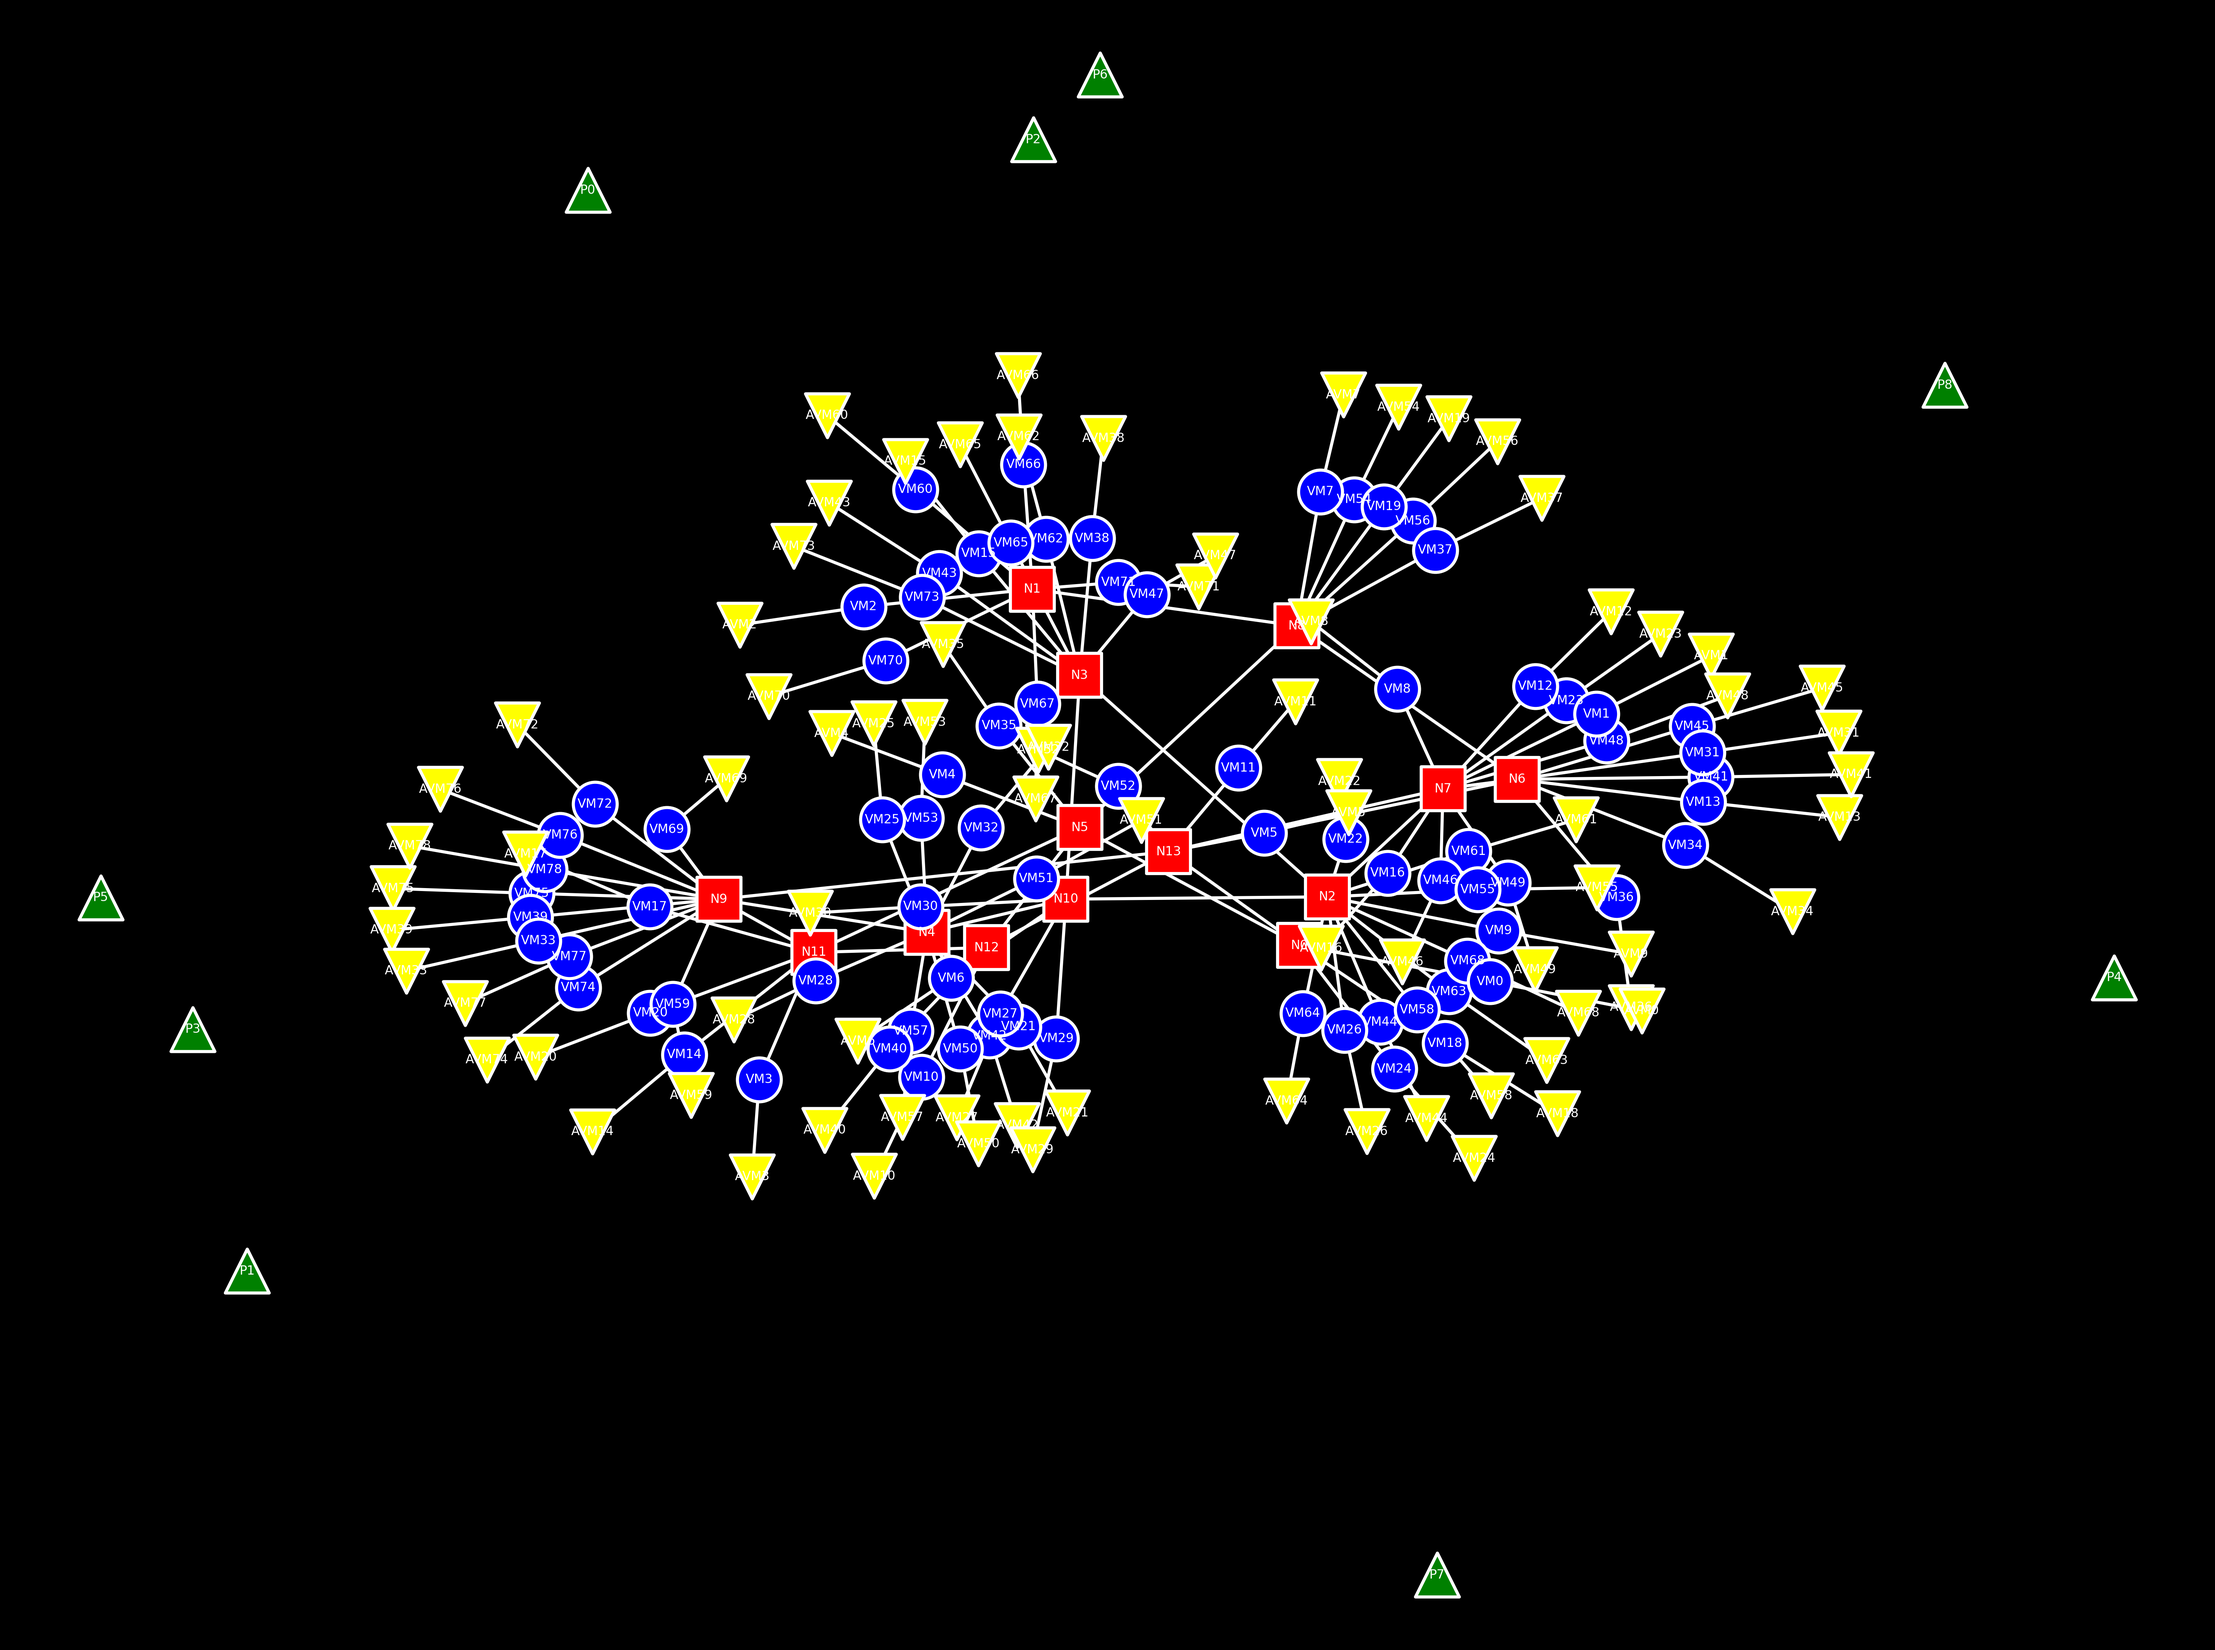
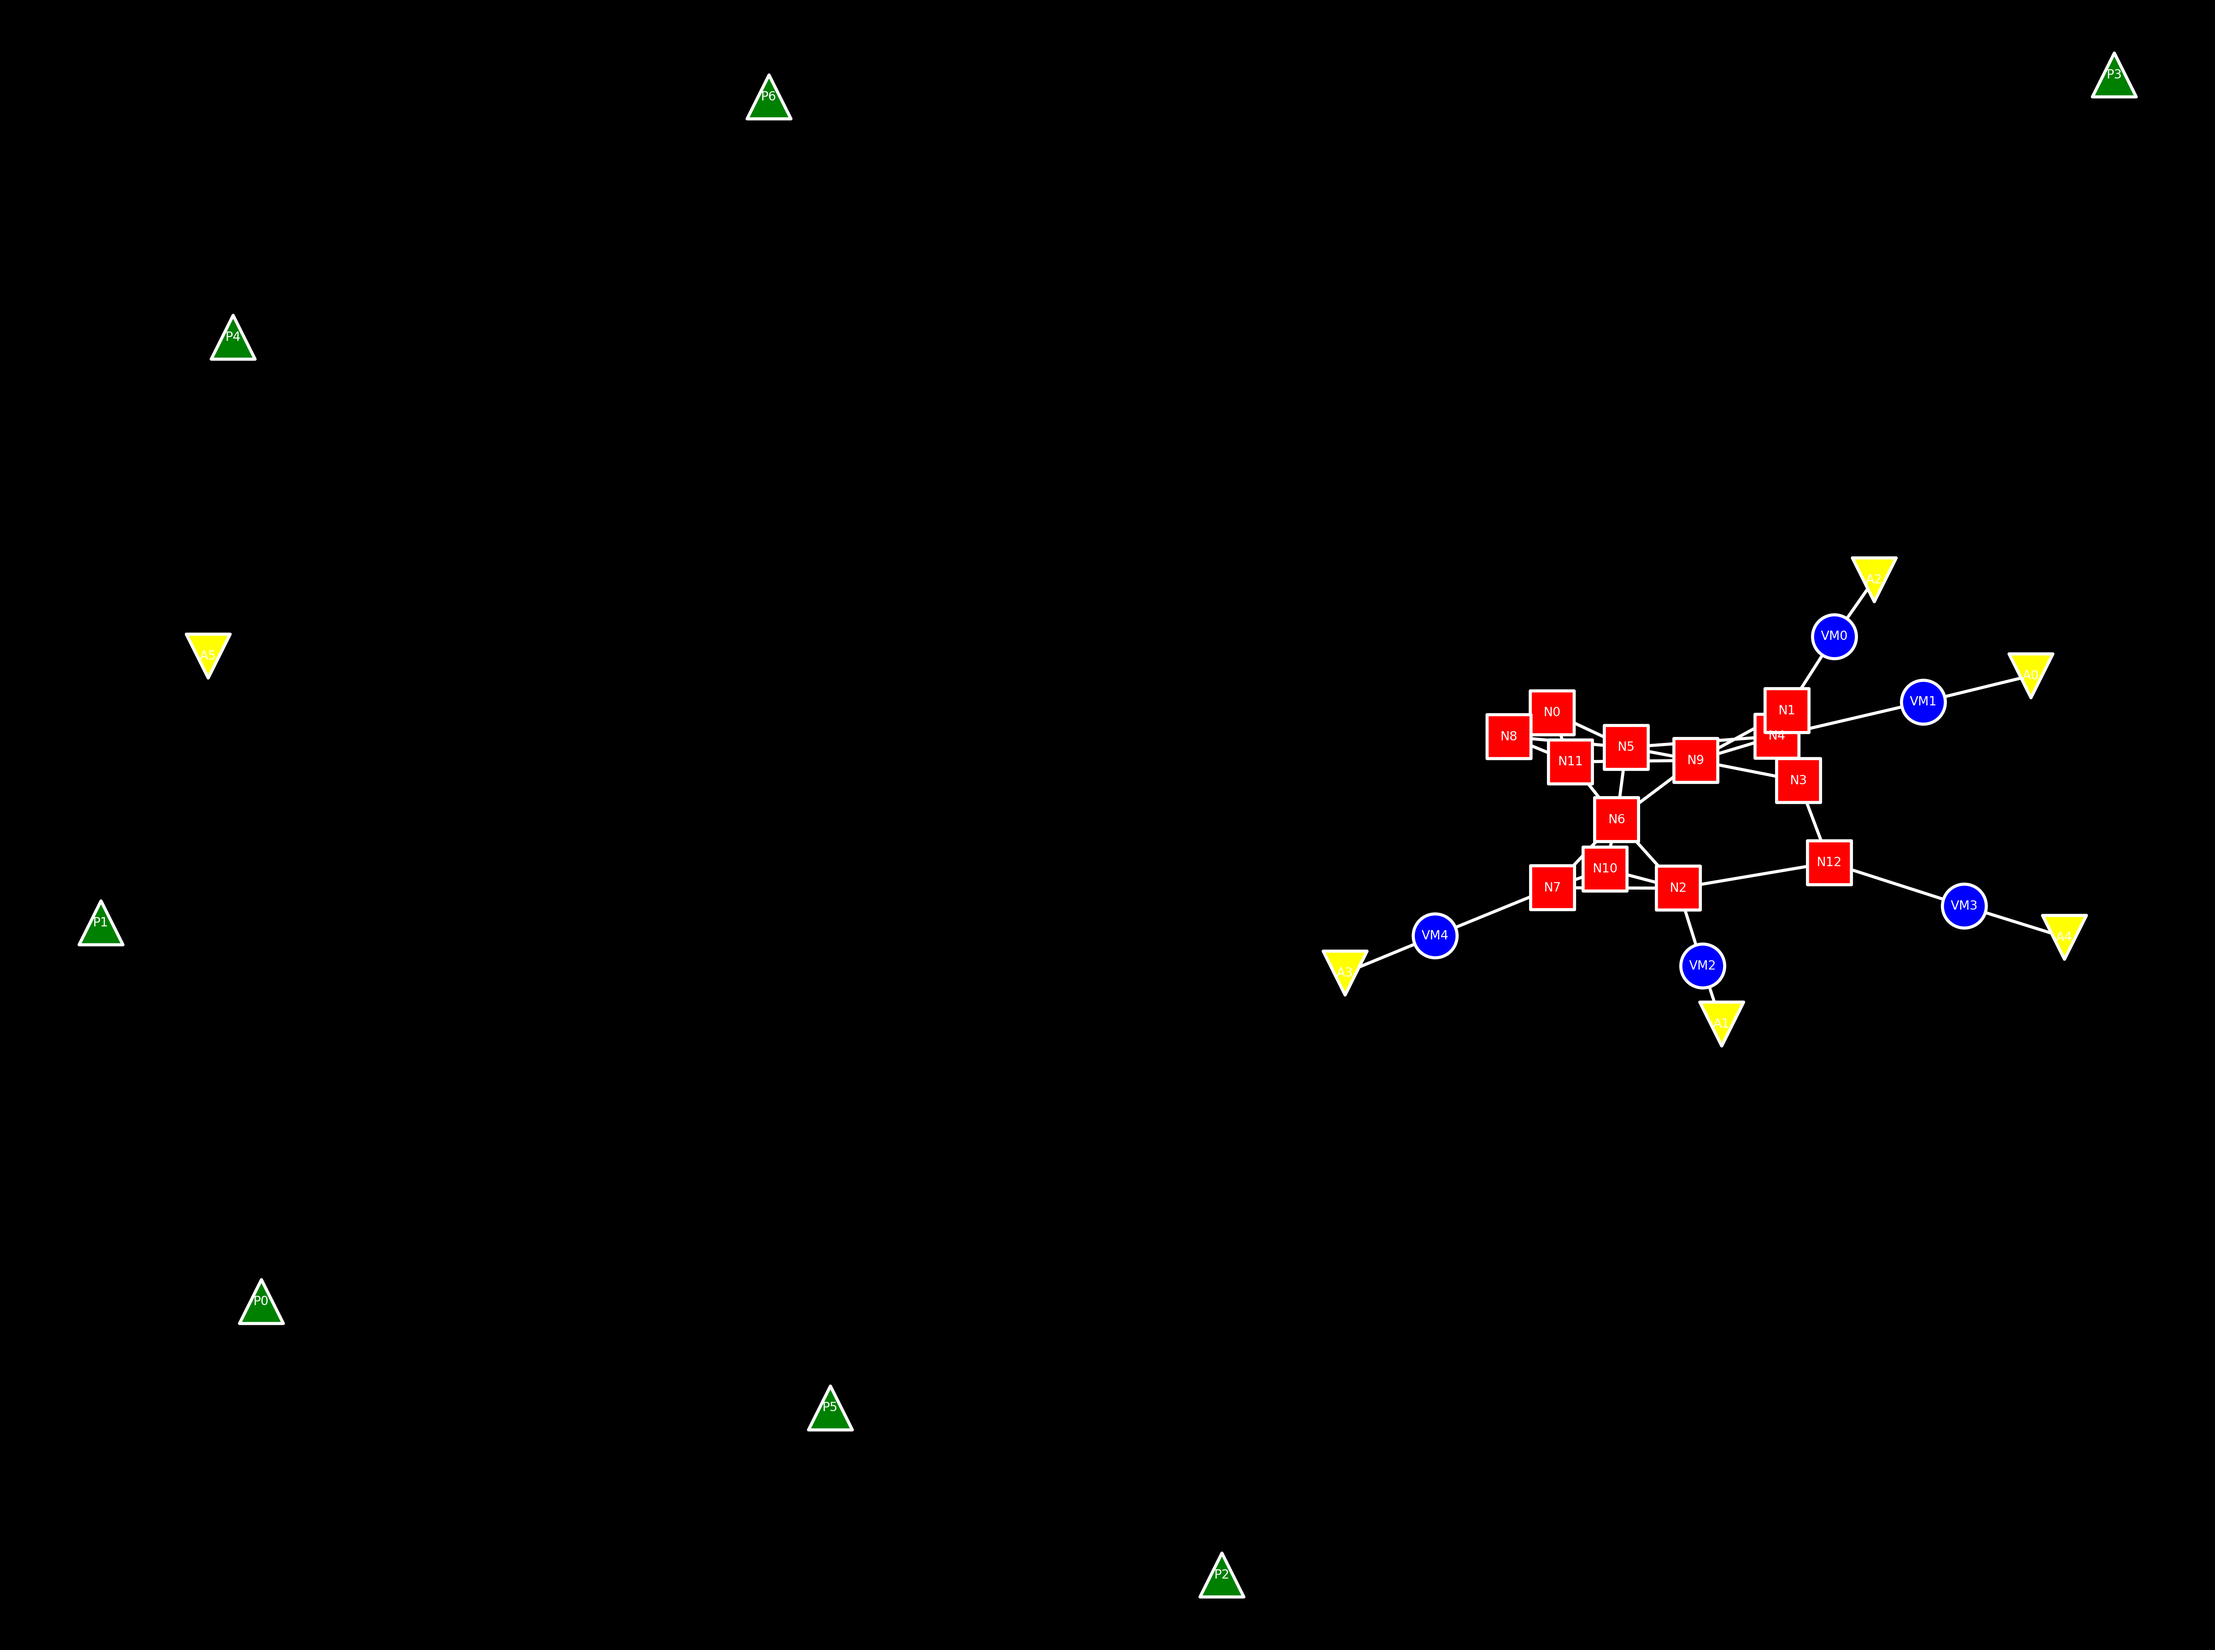
More refactoring, but something fishy going on.

diff --git a/mal_sampler.py b/mal_sampler.py
@@ -2,14 +2,16 @@ from scipy.stats import binom
 import random
 import networkx as nx
 import matplotlib.pyplot as plt
+import sys
 
 # For all possible actions, compute likelihood of resulting model.
 # Choose action that maximizes likelihood.
 
 
 class Asset:
-    def __init__(self, name: str):
+    def __init__(self, name: str, asset_type_name: str):
         self.name = name
+        self.asset_type_name = asset_type_name
         self.n_associated_assets = dict()
         self.associated_assets = dict()
 
@@ -17,57 +19,49 @@ class Asset:
         return len(self.associated_assets[asset_type]) < self.n_associated_assets[asset_type]
 
     def print(self):
-        print(self.name)
+
+        print(f"{self.asset_type_name}: {self.name}. Associated assets: {[(n, [a.name for a in list(self.associated_assets[n])]) for n in self.associated_assets]}")
 
 
 class Network(Asset):
     def __init__(self, name: str):
-        super().__init__(name)
+        super().__init__(name, 'network')
         self.n_associated_assets['network'] = 1 + binom(n=500, p=0.005).rvs()
         self.n_associated_assets['vm_instance'] = 1 + binom(n=1000, p=0.005).rvs()
         self.associated_assets['network'] = set()
         self.associated_assets['vm_instance'] = set()
 
-    def print(self):
-        print(f"Network: {self.name}. Associated networks: {[an.name for an in self.associated_assets['network']]}. Associated VM instances: {[ah.name for ah in self.associated_assets['vm_instance']]}")
-
-
 class VMInstance(Asset):
     def __init__(self, name: str):
-        super().__init__(name)
+        super().__init__(name, 'vm_instance')
         self.n_associated_assets['network'] = 1
         self.n_associated_assets['admin'] = 1
         self.associated_assets['network'] = set()
         self.associated_assets['admin'] = set()
     
-    def print(self):
-        print(
-            f"VMInstance: {self.name}. Networks: {[nw.name for nw in self.assets['network']]}")
-
-
 class Principal(Asset):
     def __init__(self, name: str):
-        super().__init__(name)
+        super().__init__(name, 'principal')
         self.n_associated_assets['admin'] = binom(n=2, p=0.1).rvs()
         self.associated_assets['admin'] = set()
 
 class Role(Asset):
-    def __init__(self, name: str):
-        super().__init__(name)
+    def __init__(self, name: str, asset_type_name: str):
+        super().__init__(name, asset_type_name)
         self.associated_assets['vm_instance'] = set()
         self.associated_assets['principal'] = set()
 
 
 class ComputeOSAdminLogin(Role):
     def __init__(self, name: str):
-        super().__init__(name)
+        super().__init__(name, 'admin')
         self.n_associated_assets['vm_instance'] = 1
         self.n_associated_assets['principal'] = 1 + binom(n=5, p=0.1).rvs()
 
 
 class ComputeOSLogin(Role):
     def __init__(self, name: str):
-        super().__init__(name)
+        super().__init__(name, 'login')
         self.n_associated_assets['vm_instance'] = binom(n=30, p=0.5).rvs()
         self.n_associated_assets['principal'] = 1 + binom(n=5, p=0.1).rvs()
 
@@ -78,26 +72,33 @@ class Model():
         self.assets = dict()
         self.n_assets['network'] = 1 + binom(n=30, p=0.5).rvs()
         self.n_assets['principal'] = 1 + binom(n=10*self.n_assets['network'], p=0.05).rvs()
+        self.n_assets['vm_instance'] = 1 + binom(n=10*self.n_assets['network'], p=0.02).rvs()
+        self.n_assets['admin'] = sys.maxsize
+        self.n_assets['login'] = sys.maxsize
         self.assets['network'] = set()
         self.assets['vm_instance'] = set()
         self.assets['principal'] = set()
-        self.assets['admins'] = set()
+        self.assets['admin'] = set()
 
-    def add_network(self):
-        if len(self.assets['network']) <= self.n_assets['network']:
-            nw = Network(f"N{len(self.assets['network'])}")
-            self.assets['network'].add(nw)
+    def add(self, asset_type: str):
+        a = None
+        if len(self.assets[asset_type]) <= self.n_assets[asset_type]:
+            if asset_type == 'network':
+                a = Network(f"N{len(self.assets[asset_type])}")
+            elif asset_type == 'principal':
+                a = Principal(f"P{len(self.assets[asset_type])}")
+            elif asset_type == 'vm_instance':
+                a = VMInstance(f"VM{len(self.assets[asset_type])}")
+            elif asset_type == 'admin':
+                a = ComputeOSAdminLogin(f"A{len(self.assets[asset_type])}")
+            elif asset_type == 'login':
+                a = ComputeOSLogin(f"L{len(self.assets[asset_type])}")
+            else:
+                raise ValueError(f'Unknown asset type: {asset_type}')
+            self.assets[asset_type].add(a)
         else:
-            print('Cannot add more networks')
-        return self.n_assets['network'] - len(self.assets['network'])
-
-    def add_principal(self):
-        if len(self.assets['principal']) <= self.n_assets['principal']:
-            principal = Principal(f"P{len(self.assets['principal'])}")
-            self.assets['principal'].add(principal)
-        else:
-            print('Cannot add more principals')
-        return self.n_assets['principal'] - len(self.assets['principal'])
+            print(f'Cannot add more {asset_type} assets.')
+        return a
 
     def associate_networks_to_networks(self):
         available_networks = [nw for nw in self.assets['network'] if nw.accepts('network')]
@@ -117,48 +118,46 @@ class Model():
                     f'Associated {source_nw.name} to {target_nw.name}. {len(available_networks)} networks left.')
                 return len(available_networks)
 
-    def associate_vm_instances_to_networks(self):
-        available_networks = [nw for nw in self.assets['network'] if nw.accepts('vm_instance')]
-        if len(available_networks) == 0:
-            print('Not enough networks to associate vm instances to')
+    def associate(self, source_asset_type: str, target_asset_type: str):
+        available_source_assets = [a for a in self.assets[source_asset_type] if a.accepts(target_asset_type)]
+        if len(available_source_assets) > 0:
+            source_asset = random.choice(available_source_assets)
         else:
-            nw = random.choice(available_networks)
-            vm_instance = VMInstance(f"VM{len(self.assets['vm_instance'])}")
-            self.assets['vm_instance'].add(vm_instance)
-            nw.associated_assets['vm_instance'].add(vm_instance)
-            vm_instance.associated_assets['network'].add(nw)
-        return len(available_networks)
-
-    def associate_admins_to_vm_instances(self):
-        available_vm_instances = [vm for vm in self.assets['vm_instance'] if vm.accepts('admin')]
-        if len(available_vm_instances) == 0:
-            print('Not enough VM instances to associate admins to')
+            print(f'Not enough {source_asset_type} to associate to {target_asset_type}')
+            if len(self.assets[source_asset_type]) < self.n_assets[source_asset_type]:
+                source_asset = self.add(source_asset_type)
+                print(f'Added {source_asset_type}')
+            else:
+                print(f'Cannot add more {source_asset_type} assets.')
+                return False
+            
+        available_target_assets = [a for a in self.assets[target_asset_type] if a.accepts(source_asset_type) and a not in source_asset.associated_assets[target_asset_type]]
+        if len(available_target_assets) > 0:
+            target_asset = random.choice(available_target_assets)
         else:
-            ah = random.choice(available_vm_instances)
-            admin = ComputeOSAdminLogin(f'A{ah.name}')
-            self.assets['admins'].add(admin)
-            ah.associated_assets['admin'].add(admin)
-            admin.associated_assets['vm_instance'].add(ah)
-        return len(available_vm_instances)
-
-    def associate_principals_to_admins(self):
-        available_admins = [a for a in self.assets['admins'] if a.accepts('principal')]
-        available_principal = [p for p in self.assets['principal'] if p.accepts('admin')]
-        if len(available_admins) == 0:
-            print('Not enough admins to associate principals to')
-        else:
-            a = random.choice(available_admins)
-            p = random.choice([p for p in self.assets['principal'] if p not in a.associated_assets['principal']])
-            a.associated_assets['principal'].add(p)
-            p.assets['admins'].add(a)
-        return len(available_admins)
+            print(f'Not enough {target_asset_type} to associate to {source_asset_type}')
+            if len(self.assets[target_asset_type]) < self.n_assets[target_asset_type]:
+                target_asset = self.add(target_asset_type)
+                print(f'Added {target_asset_type}')
+            else:
+                print(f'Cannot add more {target_asset_type} assets.')
+                return False
+        
+        source_asset.associated_assets[target_asset_type].add(target_asset)
+        target_asset.associated_assets[source_asset_type].add(source_asset)
+        return True
 
     def print(self):
-        for nw in self.assets['network']:
-            nw.print()
+        for asset_type in self.assets.keys():
+            for asset in self.assets[asset_type]:
+                asset.print()
 
     def plot(self):
         G = nx.Graph()
+        for vm in self.assets['vm_instance']:
+            G.add_node(vm.name)
+        for a in self.assets['admin']:
+            G.add_node(a.name)
         for nw in self.assets['network']:
             G.add_node(nw.name)
             for an in nw.associated_assets['network']:
@@ -174,7 +173,7 @@ class Model():
         nx.draw_networkx_nodes(G, pos, nodelist=[nw.name for nw in self.assets['network']], node_shape='s', node_color='red', edgecolors='white', linewidths=0.5, node_size=50)
         nx.draw_networkx_nodes(G, pos, nodelist=[ah.name for ah in self.assets['vm_instance']], node_shape='o', node_color='blue', edgecolors='white', linewidths=0.5, node_size=50)
         nx.draw_networkx_nodes(G, pos, nodelist=[p.name for p in self.assets['principal']], node_shape='^', node_color='green', edgecolors='white', linewidths=0.5, node_size=50)
-        nx.draw_networkx_nodes(G, pos, nodelist=[a.name for a in self.assets['admins']], node_shape='v', node_color='yellow', edgecolors='white', linewidths=0.5, node_size=50)
+        nx.draw_networkx_nodes(G, pos, nodelist=[a.name for a in self.assets['admin']], node_shape='v', node_color='yellow', edgecolors='white', linewidths=0.5, node_size=50)
         nx.draw_networkx_edges(G, pos, edge_color='white', width=0.5)
         nx.draw_networkx_labels(G, pos, font_color='white', font_size=2)
         plt.axis('off')
@@ -187,19 +186,19 @@ class Sampler():
 
     def sample(self):
         print('Adding networks')
-        while self.current_model.add_network() > 0:
+        while self.current_model.add('network'):
             pass
         print('Adding principals')
-        while self.current_model.add_principal() > 0:
+        while self.current_model.add('principal'):
             pass
         print('Associating networks to networks')
         while self.current_model.associate_networks_to_networks() > 1:
             pass
         print('Associating VM instances to networks')
-        while self.current_model.associate_vm_instances_to_networks() > 0:
+        while self.current_model.associate('vm_instance', 'network'):
             pass
         print('Associating admins to VM instances')
-        while self.current_model.associate_admins_to_vm_instances() > 0:
+        while self.current_model.associate('admin', 'vm_instance') > 0:
             pass
         self.current_model.print()
         self.current_model.plot()
